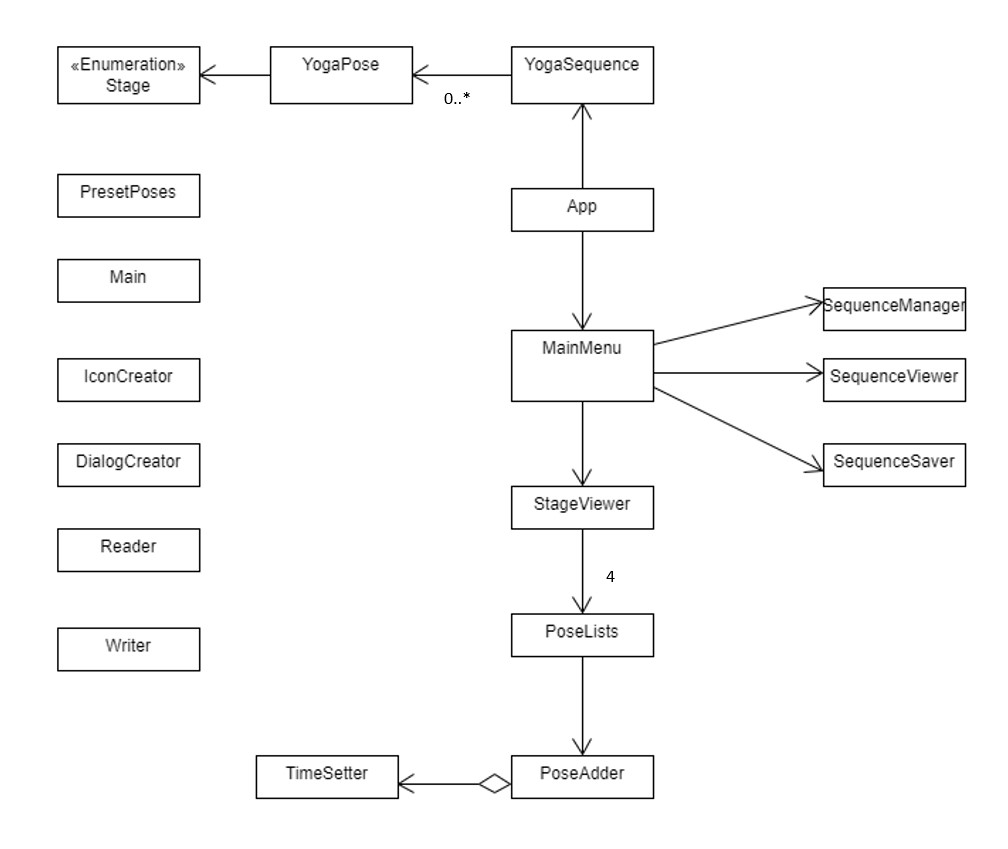
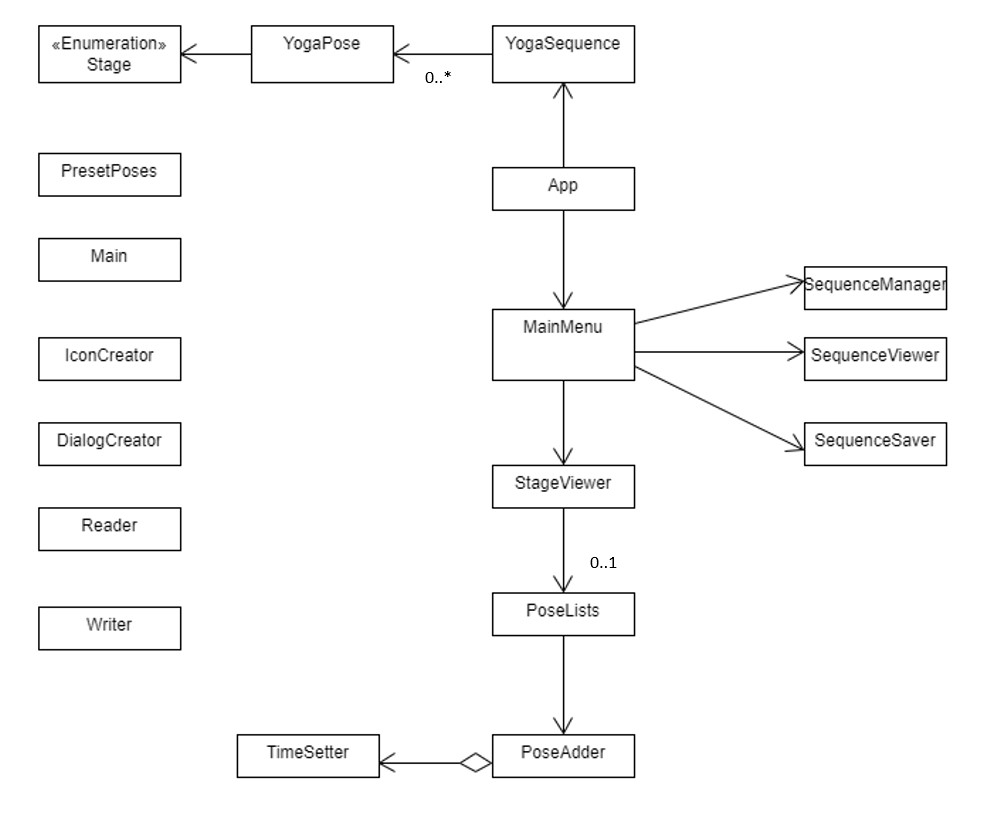
updated UML to reflect poseList field

diff --git a/src/main/ui/StageViewer.java b/src/main/ui/StageViewer.java
@@ -24,9 +24,7 @@ public class StageViewer extends JPanel {
     private JButton mainBtn;
     private JButton coolBtn;
     private PoseLists poseList;
-    private PoseLists warmList;
-    private PoseLists mainList;
-    private PoseLists coolList;
+
 
     /**
      * Constructor builds the list of poses and buttons for each stage of the workout
@@ -72,8 +70,8 @@ public class StageViewer extends JPanel {
         warmBtn.addActionListener(new ActionListener() {
             @Override
             public void actionPerformed(ActionEvent e) {
-                warmList = new PoseLists();
-                warmList.createPoseMenu(PresetPoses.buildWarmUpOptionsYoga());
+                poseList = new PoseLists();
+                poseList.createPoseMenu(PresetPoses.buildWarmUpOptionsYoga());
             }
         });
 
@@ -87,8 +85,8 @@ public class StageViewer extends JPanel {
         mainBtn.addActionListener(new ActionListener() {
             @Override
             public void actionPerformed(ActionEvent e) {
-                mainList = new PoseLists();
-                mainList.createPoseMenu(PresetPoses.buildMainOptionsYoga());
+                poseList = new PoseLists();
+                poseList.createPoseMenu(PresetPoses.buildMainOptionsYoga());
             }
         });
     }
@@ -102,8 +100,8 @@ public class StageViewer extends JPanel {
         coolBtn.addActionListener(new ActionListener() {
             @Override
             public void actionPerformed(ActionEvent e) {
-                coolList = new PoseLists();
-                coolList.createPoseMenu(PresetPoses.buildWarmDownOptionsYoga());
+                poseList = new PoseLists();
+                poseList.createPoseMenu(PresetPoses.buildWarmDownOptionsYoga());
             }
         });
     }

diff --git a/src/main/ui/SequenceManager.java b/src/main/ui/SequenceManager.java
@@ -30,7 +30,7 @@ public class SequenceManager {
 
     /**
      * Creates all components for the scroll pane of names of poses in sequence
-     * @return
+     * @return JPanel that contains scrollPanes
      */
 
     public JPanel createPane() {

diff --git a/src/main/persistence/Writer.java b/src/main/persistence/Writer.java
@@ -9,7 +9,7 @@ import java.io.PrintWriter;
 //Represents writer that writes data to text file
 
 public class Writer {
-    //public static final String SEQUENCE_FILE = "./data/sequence.txt";
+
     private PrintWriter printWriter;
 
 
